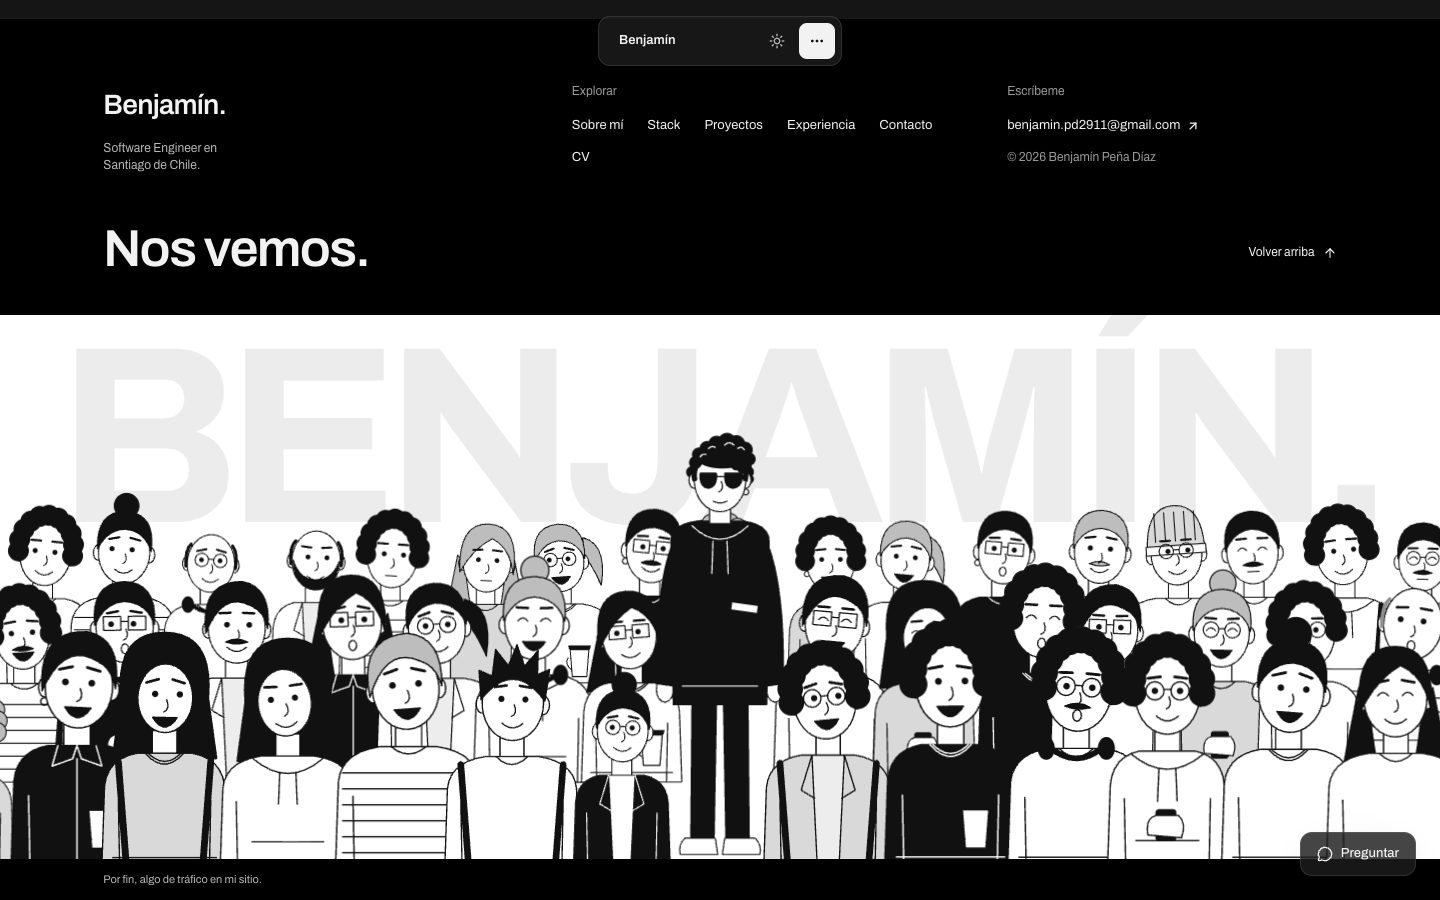
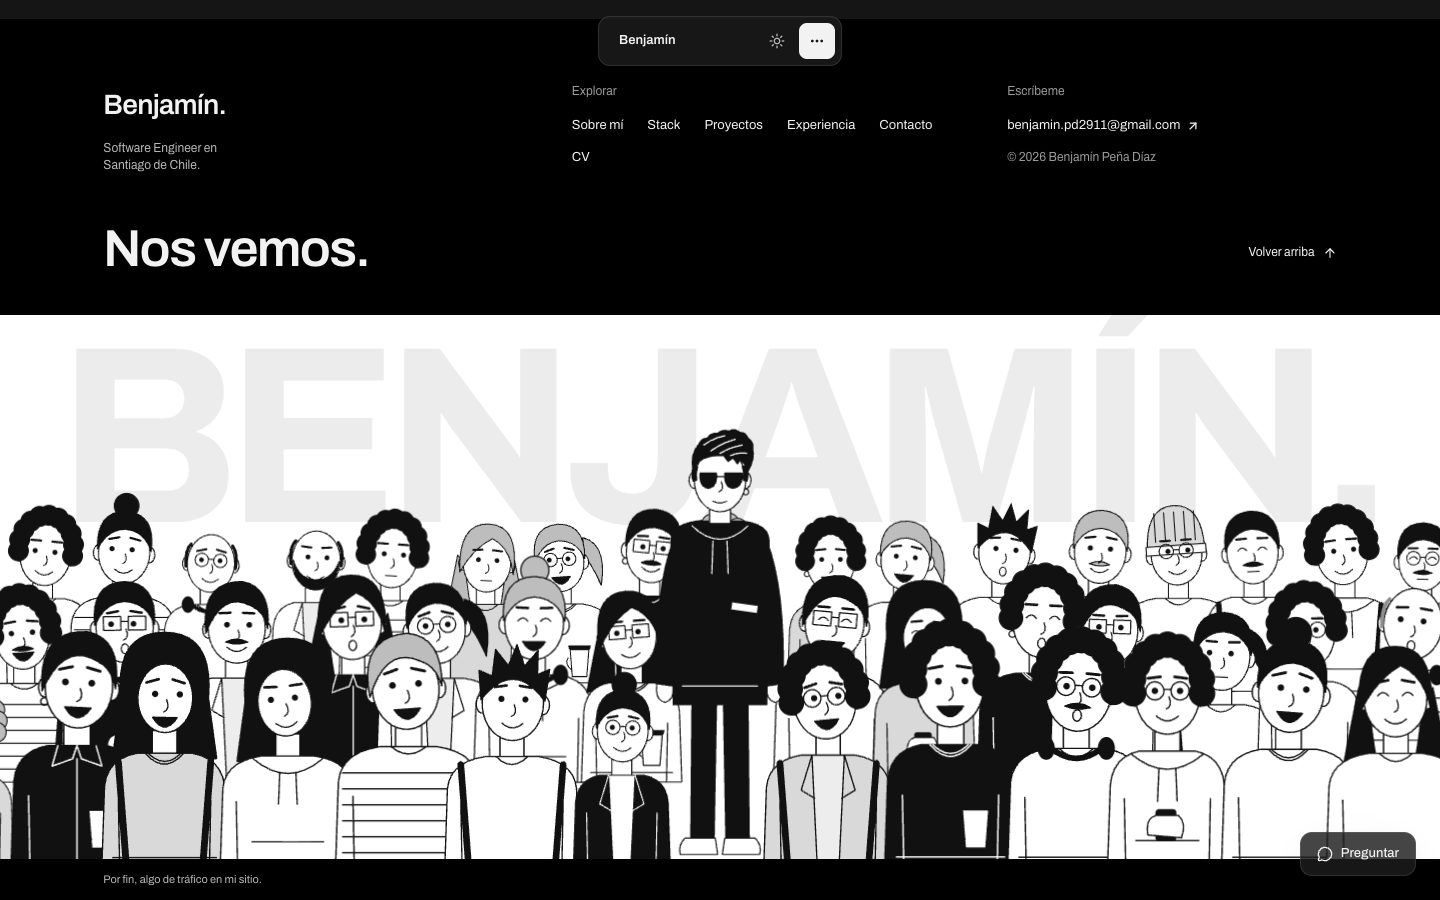
fix(v5): give Benjamín straight, textured hair
Swaps the curls for straight, textured hair with volume swept to one side
and short sides, keeping the sunglasses and no stubble.

diff --git a/src/components/layout/Multitud.tsx b/src/components/layout/Multitud.tsx
@@ -9,7 +9,7 @@ import type { ReactNode } from "react";
  * Gente dibujada a línea, en blanco y negro, generada aquí mismo con una
  * semilla (no es la ilustración del reel: cada persona sale de combinar
  * peinados, ropa, caras y accesorios). Benjamín va al centro, de negro, de
- * cuerpo entero, con sus rulos y lentes de sol.
+ * cuerpo entero, con su pelo liso y texturizado y lentes de sol.
  *
  * - Al entrar en pantalla, las filas suben desde abajo, de atrás hacia
  *   adelante.
@@ -240,23 +240,18 @@ function DibujoPersona({ p }: { p: Persona }) {
 }
 
 /**
- * El pelo de Benjamín, sacado de sus fotos: rulos oscuros con volumen arriba,
- * algunos que caen sobre la frente hacia un lado, lados más cortos y rulos
- * en la nuca. Son círculos sobre una base, en coordenadas de su cabeza.
+ * El pelo de Benjamín: liso y texturizado, con volumen arriba peinado hacia
+ * un lado, puntas desordenadas y los lados cortos. El borde de arriba son
+ * mechones en punta; las líneas blancas marcan la dirección del peinado.
  */
-const RULOS_ARRIBA: [number, number, number][] = [
-  [-21, -357, 5], [-18, -364, 5.5], [-11, -369, 6], [-3, -373, 6.5], [6, -375, 7], [14, -373, 7],
-  [21, -368, 6.5], [25, -360, 5], [-6, -366, 5], [4, -368, 5.5], [13, -365, 5.5], [20, -361, 5],
-];
-const RULOS_FRENTE: [number, number, number][] = [
-  [9, -358, 4.5], [14, -355, 4.2], [19, -352, 3.8], [4, -360, 3.8], [23, -354, 3.5],
-];
-// Rulos de la nuca: asoman apenas detrás de las orejas.
-const RULOS_NUCA: [number, number, number][] = [
-  [-24, -349, 4.5], [24, -349, 4.5], [25, -343, 3.5],
-];
+const PELO_BENJAMIN =
+  "M -23 -350 Q -26 -364 -18 -373 Q -16 -378 -11 -378 Q -8 -383 -2 -382 Q 2 -386 8 -384 Q 12 -387 17 -383 " +
+  "Q 22 -383 24 -378 Q 29 -375 28 -369 Q 30 -360 24 -350 " +
+  "Q 21 -357 17 -360 L 15 -356 L 11 -361 L 7 -358 L 3 -363 Q -10 -364 -18 -358 Q -21 -355 -23 -350 Z";
+const MECHAS_BENJAMIN =
+  "M -14 -372 Q -6 -378 4 -380 M -8 -367 Q 2 -374 13 -377 M 0 -365 Q 8 -370 19 -372 M 9 -363 Q 15 -366 23 -365";
 
-/** Benjamín de cuerpo entero: polerón y pantalón negros, rulos y lentes de sol. */
+/** Benjamín de cuerpo entero: polerón y pantalón negros, pelo texturizado y lentes de sol. */
 function DibujoBenjamin() {
   return (
     <g strokeLinecap="round" strokeLinejoin="round" stroke={TINTA}>
@@ -275,26 +270,15 @@ function DibujoBenjamin() {
         <rect x={10} y={-236} width={22} height={6} fill={PAPEL} stroke="none" transform="rotate(8 21 -233)" />
         {/* cuello y cabeza */}
         <path d="M -9 -320 L -9 -305 L 9 -305 L 9 -320" fill={PAPEL} />
-        {/* rulos de la nuca, detrás de la cara */}
-        {RULOS_NUCA.map(([x, y, r]) => (
-          <circle key={`n${x}${y}`} cx={x} cy={y} r={r} fill={TINTA} />
-        ))}
         <ellipse cx={-22} cy={-342} rx={4.5} ry={7} fill={PAPEL} />
         <ellipse cx={22} cy={-342} rx={4.5} ry={7} fill={PAPEL} />
         <circle cx={22} cy={-332} r={2.5} fill="none" />
         <ellipse cx={0} cy={-342} rx={22} ry={27} fill={PAPEL} />
         {/* lados más cortos, pegados a la cabeza */}
         <path d="M -23 -354 Q -25 -346 -23 -341 L -20 -342 Q -21 -348 -19 -354 Z M 23 -354 Q 25 -346 23 -341 L 20 -342 Q 21 -348 19 -354 Z" fill={TINTA} />
-        {/* volumen de rulos arriba y los que caen sobre la frente */}
-        <ellipse cx={2} cy={-362} rx={23} ry={10} fill={TINTA} stroke="none" />
-        {RULOS_ARRIBA.map(([x, y, r]) => (
-          <circle key={`a${x}${y}`} cx={x} cy={y} r={r} fill={TINTA} />
-        ))}
-        {RULOS_FRENTE.map(([x, y, r]) => (
-          <circle key={`f${x}${y}`} cx={x} cy={y} r={r} fill={TINTA} />
-        ))}
-        <path d="M 21 -350 q 4 3 1 7 q -3 1 -3 -2" fill="none" />
-        <path d="M -10 -369 q 3 -3 6 -1 M 4 -372 q 4 -4 8 0 M 15 -369 q 3 -3 6 1 M -17 -362 q 2 -3 5 -2" fill="none" stroke={PAPEL} strokeWidth={1.1} />
+        {/* pelo liso y texturizado, con volumen peinado hacia un lado */}
+        <path d={PELO_BENJAMIN} fill={TINTA} />
+        <path d={MECHAS_BENJAMIN} fill="none" stroke={PAPEL} strokeWidth={1.1} />
         {/* lentes de sol, como en su foto */}
         <path d="M -17 -348 L -3 -348 Q -2 -336 -10 -335 Q -18 -336 -17 -348 Z M 4 -348 L 19 -348 Q 20 -336 11 -335 Q 3 -336 4 -348 Z M -3 -345 L 4 -345 M 19 -346 L 23 -344" fill={TINTA} />
         <path d="M 1 -341 Q 4 -334 -1 -332" fill="none" />

diff --git a/README.md b/README.md
@@ -32,7 +32,7 @@ pero es propia: no se copió la ilustración del reel (es arte de otra persona).
 8. **Pie:** banda negra con «Nos vemos.» y, abajo, la banda blanca con
    «BENJAMÍN.» gigante y una **multitud ilustrada a línea**, generada en SVG
    combinando peinados, ropa, caras y accesorios. Benjamín está al centro, de
-   negro, de cuerpo entero, con sus rulos y lentes de sol. Las filas suben al entrar,
+   negro, de cuerpo entero, con pelo liso texturizado y lentes de sol. Las filas suben al entrar,
    cada 2,4 s alguien se va y llega otra persona, al apuntar dan un saltito y un
    clic cambia a quien tocas. Cierra con «Por fin, algo de tráfico en mi sitio.».
 9. **Preguntar:** el «Ask AI» del reel, sin modelo detrás. Responde con los
